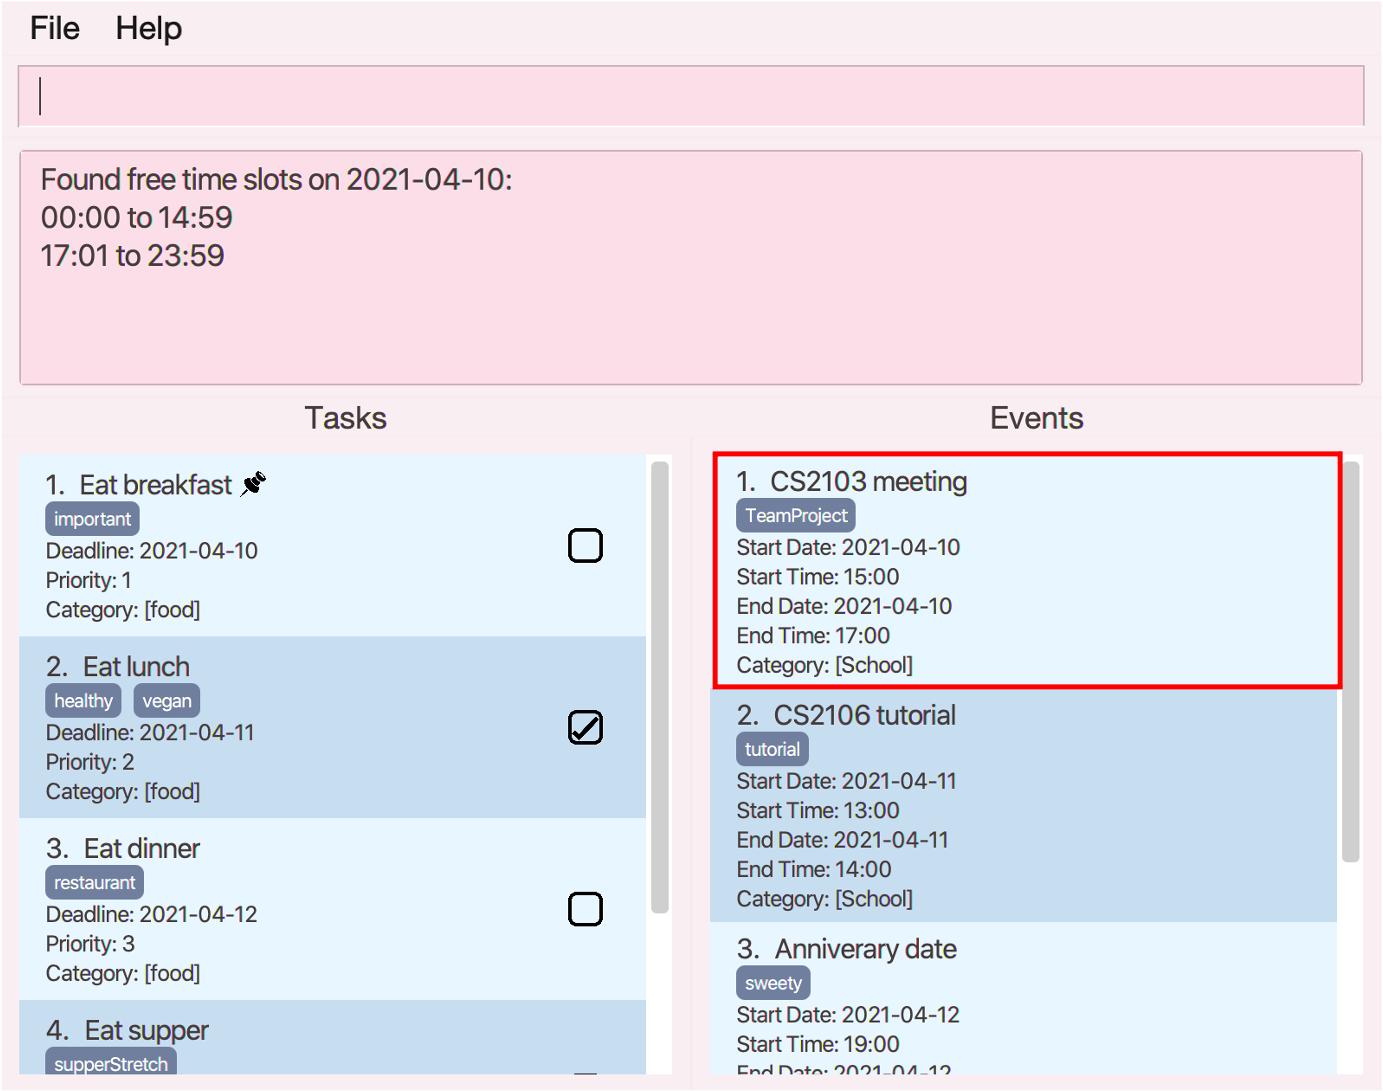
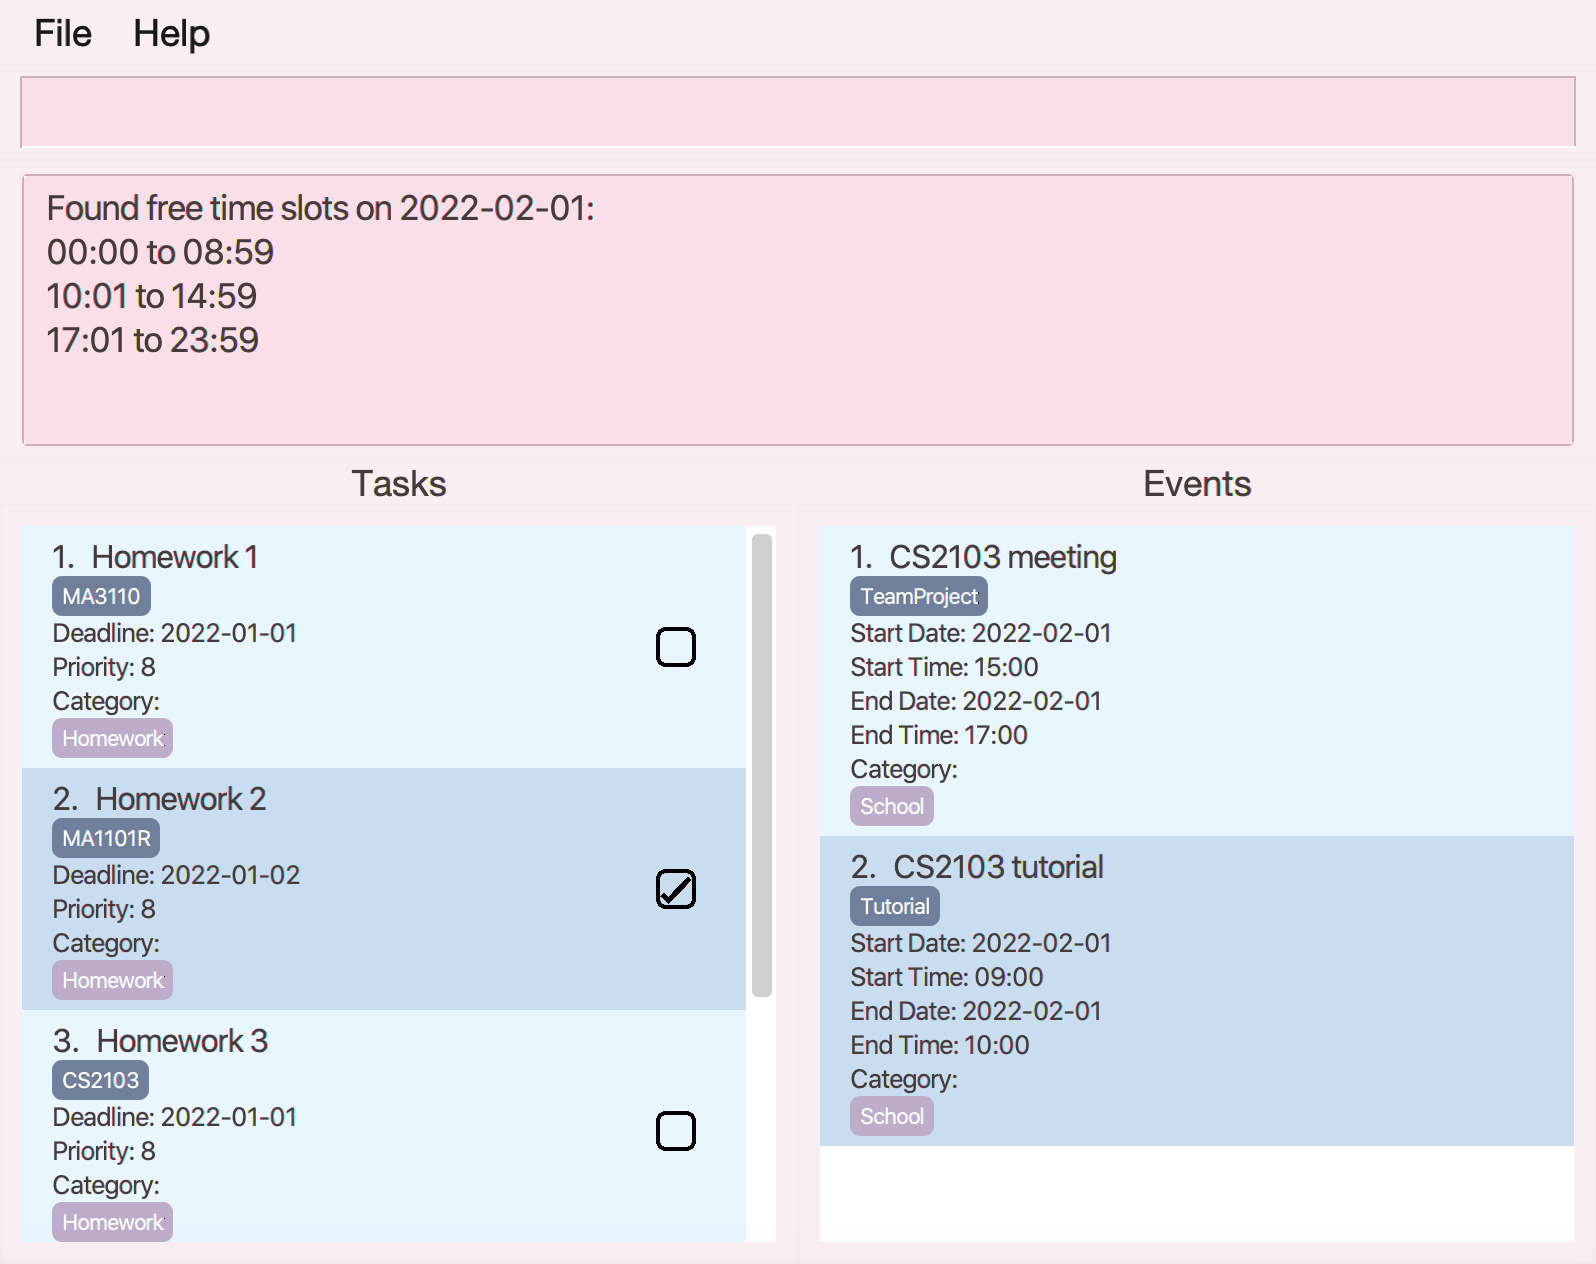
Updated ss

diff --git a/docs/UserGuide.md b/docs/UserGuide.md
@@ -628,12 +628,10 @@ Format: `free_time DATE`
   indicating invalid date.
 
 Examples:
-* `free_time 2021-04-10` finds all free time slots on the given date `10th April 2021`.
+* `free_time 2022-02-01` finds all free time slots on the given date `10th April 2021`.
 
 #### Illustration of usage of `free_time`:
 ![Example of usage of `free_time`](images/FindFreeTimeExample.png)
-
-* There is only one event on 2021-04-10 (highlighted in red box).
 
 [Return to Feature List](#feature-list)
 
